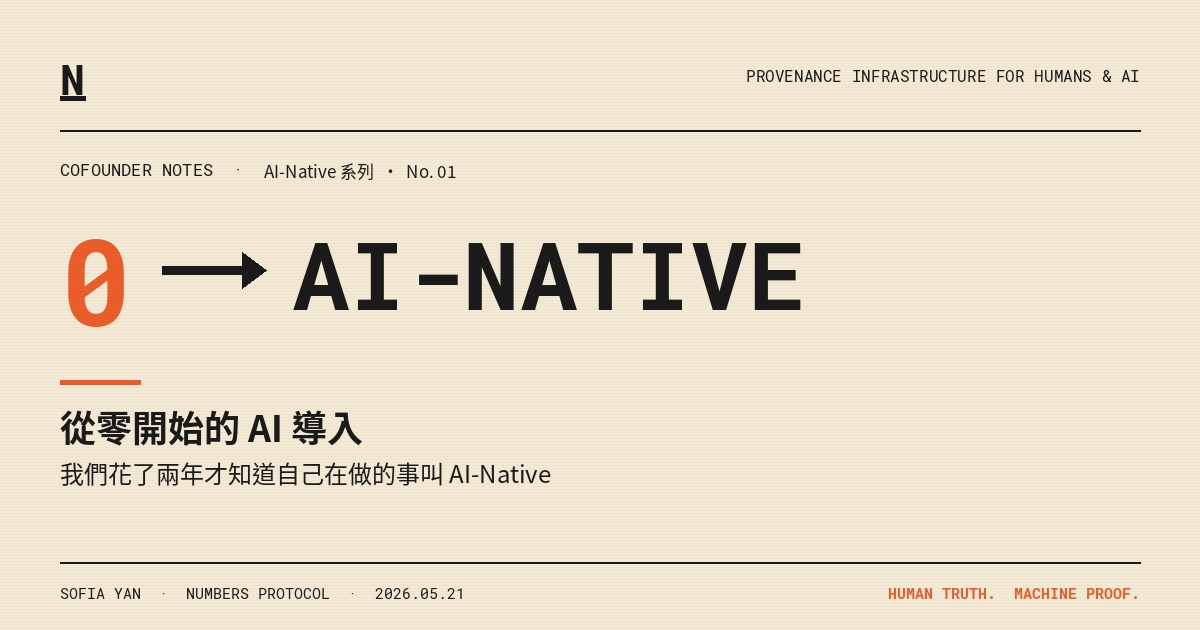
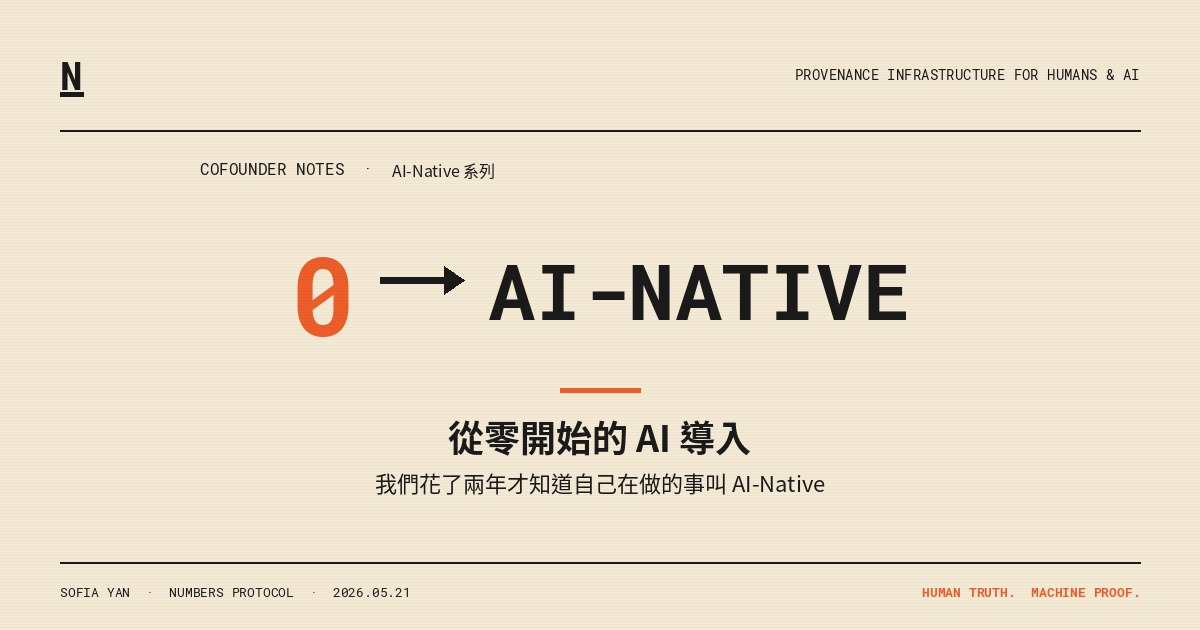
fix: reposition OG cover text to prevent thumbnail cropping
by Sofia Yan & Omni

diff --git a/scripts/generate-og-image.py b/scripts/generate-og-image.py
@@ -54,77 +54,89 @@ def draw_n_mark(draw, x, y, size=42, color=BLACK):
 
 
 def main():
+    """
+    Safe-area design:
+    - Card thumbnails crop to ~aspect-[16/10] = 1.6:1, losing ~12% on each side.
+    - All critical content lives in central 800px (x=200..1000).
+    - Decorative brand elements (N mark, top tagline, bottom meta) sit in the
+      outer 200px on each edge — OK if they get cropped on cards.
+    """
     img = Image.new("RGB", (WIDTH, HEIGHT), CREAM)
     draw = ImageDraw.Draw(img)
 
-    # ----- TOP BAR -----
-    draw_n_mark(draw, 60, 50, size=42, color=BLACK)
-    f_top = f(ROBOTO_MONO_REG, 16)
+    # Safe-area boundaries (visual debug — uncomment to inspect)
+    # draw.rectangle([(200, 0), (1000, HEIGHT)], outline=(255, 0, 0, 128), width=1)
+
+    # ----- DECORATIVE TOP BAR (outer area, may crop) -----
+    draw_n_mark(draw, 60, 50, size=38, color=BLACK)
+    f_top = f(ROBOTO_MONO_REG, 14)
     top_right = "PROVENANCE INFRASTRUCTURE FOR HUMANS & AI"
     tw = text_w(draw, top_right, f_top)
     draw.text((WIDTH - 60 - tw, 65), top_right, font=f_top, fill=BLACK)
     draw.rectangle([(60, 130), (WIDTH - 60, 131)], fill=BLACK)
 
-    # ----- KICKER -----
-    f_kick_en = f(ROBOTO_MONO_REG, 17)
-    f_kick_cjk = f(CJK_REG, 17)
-    kx, ky = 60, 158
+    # ----- KICKER (within safe area) -----
+    f_kick_en = f(ROBOTO_MONO_REG, 16)
+    f_kick_cjk = f(CJK_REG, 16)
+    kx, ky = 200, 158
     draw.text((kx, ky), "COFOUNDER NOTES  ·  ", font=f_kick_en, fill=BLACK)
     en_w = text_w(draw, "COFOUNDER NOTES  ·  ", f_kick_en)
-    draw.text((kx + en_w, ky), "AI-Native 系列  ·  No. 01", font=f_kick_cjk, fill=BLACK)
+    draw.text((kx + en_w, ky), "AI-Native 系列", font=f_kick_cjk, fill=BLACK)
 
-    # ----- HERO: "0 → AI-NATIVE" -----
-    # "0" in red at full hero size
-    f_hero = f(ROBOTO_MONO_BOLD, 120)
-    hx, hy = 60, 200
-    draw.text((hx, hy), "0", font=f_hero, fill=RED)
-    zero_w = text_w(draw, "0", f_hero)
+    # ----- HERO: "0 → AI-NATIVE" (centered in safe area) -----
+    # Pre-measure to center within safe zone x=200..1000 (width=800)
+    f_hero_0 = f(ROBOTO_MONO_BOLD, 110)
+    f_hero_native = f(ROBOTO_MONO_BOLD, 78)
+    zero_w = text_w(draw, "0", f_hero_0)
+    arrow_len = 64
+    arrowhead_w = 20
+    gap = 24
+    native_w = text_w(draw, "AI-NATIVE", f_hero_native)
+    total_w = zero_w + gap + arrow_len + arrowhead_w + gap + native_w
+    # Center within x=200..1000 (i.e. start at x = 200 + (800-total_w)/2)
+    hx = 200 + max(0, int((800 - total_w) / 2))
+    hy = 220
 
-    # Hand-drawn arrow (Roboto Mono lacks → glyph)
-    ax = hx + zero_w + 30
-    ay = hy + 70  # vertical center of the arrow
-    arrow_len = 80
-    # Horizontal shaft
-    draw.rectangle([(ax, ay - 4), (ax + arrow_len, ay + 4)], fill=BLACK)
-    # Arrowhead (triangle)
+    # "0" in red
+    draw.text((hx, hy), "0", font=f_hero_0, fill=RED)
+
+    # Arrow (drawn manually since Roboto Mono lacks → glyph)
+    ax = hx + zero_w + gap
+    ay = hy + 60  # vertical center
+    draw.rectangle([(ax, ay - 3), (ax + arrow_len, ay + 3)], fill=BLACK)
     draw.polygon([
-        (ax + arrow_len + 24, ay),
-        (ax + arrow_len, ay - 18),
-        (ax + arrow_len, ay + 18),
+        (ax + arrow_len + arrowhead_w, ay),
+        (ax + arrow_len, ay - 14),
+        (ax + arrow_len, ay + 14),
     ], fill=BLACK)
 
     # AI-NATIVE
-    f_native = f(ROBOTO_MONO_BOLD, 95)
-    nx = ax + arrow_len + 50
-    draw.text((nx, hy + 10), "AI-NATIVE", font=f_native, fill=BLACK)
+    nx = ax + arrow_len + arrowhead_w + gap
+    draw.text((nx, hy + 18), "AI-NATIVE", font=f_hero_native, fill=BLACK)
 
     # ----- DIVIDER -----
-    draw.rectangle([(60, 380), (140, 384)], fill=RED)
+    div_x = 200 + max(0, int((800 - 80) / 2))
+    draw.rectangle([(div_x, 388), (div_x + 80, 392)], fill=RED)
 
-    # ----- CJK TITLE -----
+    # ----- CJK TITLE (centered, within safe area) -----
     f_title = f(CJK_BOLD, 36)
-    draw.text((60, 400), "從零開始的 AI 導入", font=f_title, fill=BLACK)
-    f_sub = f(CJK_REG, 24)
-    draw.text((60, 455), "我們花了兩年才知道自己在做的事叫 AI-Native", font=f_sub, fill=BLACK)
+    title_text = "從零開始的 AI 導入"
+    title_w = text_w(draw, title_text, f_title)
+    tx = 200 + max(0, int((800 - title_w) / 2))
+    draw.text((tx, 410), title_text, font=f_title, fill=BLACK)
 
-    # ----- THREE STAGES TIMELINE (horizontal, below CJK title) -----
-    ty = 510
-    f_stage_lbl = f(ROBOTO_MONO_BOLD, 11)
-    f_stage_yr = f(ROBOTO_MONO_REG, 10)
-    stages = [
-        ("2023 ─ 2024", "PROMPT", BLACK),
-        ("2024 ─ 2025", "CONTEXT", BLACK),
-        ("2025 ─ NOW", "HARNESS", RED),
-    ]
-    # We hide this here — stages will live as a dedicated chart in the post body.
-    # Keep clean OG with just hero + CJK title.
+    f_sub = f(CJK_REG, 22)
+    sub_text = "我們花了兩年才知道自己在做的事叫 AI-Native"
+    sub_w = text_w(draw, sub_text, f_sub)
+    sx = 200 + max(0, int((800 - sub_w) / 2))
+    draw.text((sx, 466), sub_text, font=f_sub, fill=BLACK)
 
-    # ----- BOTTOM BAR -----
+    # ----- DECORATIVE BOTTOM BAR (outer area, may crop) -----
     draw.rectangle([(60, 562), (WIDTH - 60, 563)], fill=BLACK)
-    f_meta = f(ROBOTO_MONO_REG, 15)
+    f_meta = f(ROBOTO_MONO_REG, 13)
     meta = "SOFIA YAN  ·  NUMBERS PROTOCOL  ·  2026.05.21"
     draw.text((60, 583), meta, font=f_meta, fill=BLACK)
-    f_tag = f(ROBOTO_MONO_BOLD, 15)
+    f_tag = f(ROBOTO_MONO_BOLD, 13)
     tag = "HUMAN TRUTH.  MACHINE PROOF."
     tlw = text_w(draw, tag, f_tag)
     draw.text((WIDTH - 60 - tlw, 583), tag, font=f_tag, fill=RED)

diff --git a/scripts/test-og-crop.py b/scripts/test-og-crop.py
@@ -1,0 +1,35 @@
+#!/usr/bin/env python3
+"""Simulate BlogCard aspect-[16/10] crop to verify OG safe area."""
+from pathlib import Path
+from PIL import Image
+
+ROOT = Path(__file__).resolve().parent.parent
+SRC = ROOT / "public" / "images" / "posts" / "ai-native-1000-club" / "cover.png"
+DEST_DIR = ROOT / "scripts"
+
+img = Image.open(SRC)
+W, H = img.size  # 1200x630
+
+# BlogCard uses aspect-[16/10] = 1.6:1 with object-cover
+# Image is 1.905:1, wider than container, so it crops horizontally
+target_aspect = 16 / 10
+new_w = int(H * target_aspect)
+crop_l = (W - new_w) // 2
+crop_r = W - crop_l
+print(f"Source: {W}x{H} (aspect {W/H:.3f})")
+print(f"Target: {new_w}x{H} (aspect {target_aspect:.3f})")
+print(f"Crop: {crop_l}px from left, {W - crop_r}px from right")
+print(f"Visible: x={crop_l} to x={crop_r}")
+
+cropped = img.crop((crop_l, 0, crop_r, H))
+out = DEST_DIR / "og-crop-preview.png"
+cropped.save(out, format="PNG", optimize=True)
+print(f"Saved: {out}")
+
+# Also simulate a more aggressive crop (some cards/social may crop more)
+new_w2 = int(H * (3 / 2))  # 3:2 aspect crop
+crop_l2 = (W - new_w2) // 2
+cropped2 = img.crop((crop_l2, 0, W - crop_l2, H))
+out2 = DEST_DIR / "og-crop-preview-aggressive.png"
+cropped2.save(out2, format="PNG", optimize=True)
+print(f"Saved aggressive (3:2): {out2}")

diff --git a/.omni/92b9b6e4-ai/memory.md b/.omni/92b9b6e4-ai/memory.md
@@ -44,4 +44,4 @@ _Not yet documented. The AI will populate this as it discovers the environment._
 - Omni 平台設計與 Greg Isenberg 的 AI-Native 論述高度對齊：TAEA 框架（Transparent / Auditable / Explainable）對應文章的「agent 需要規則、稽核、證據」；Memory（per-conversation `.omni/memory.md` + Shared Memory 五分類）+ Skills + Subagents + Library RAG 構成「對機器可讀」的組織知識層；Heartbeat（Pulse 4h / Rhythm 24h）+ NREM + Monitor + Loop/Schedule 構成「agent 艦隊 + 人類監督」的多模型編排；Z App agent tickets / Plan Mode / confirmation hooks 構成「何時動手、何時問人」的邊界。Omni 定位是「AI-Native 公司的賣鏟人」— 平台層基礎建設，而非單一產業的 AI-Native 服務公司。
 
 ---
-_Last system refresh: 2026-05-22 04:45 UTC_
+_Last system refresh: 2026-05-22 05:07 UTC_